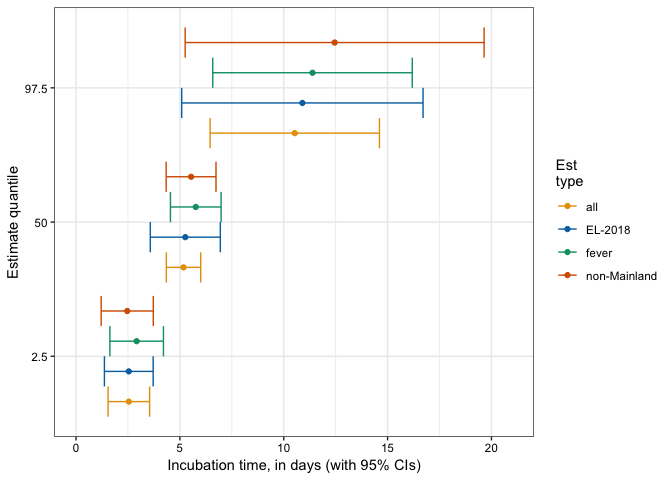
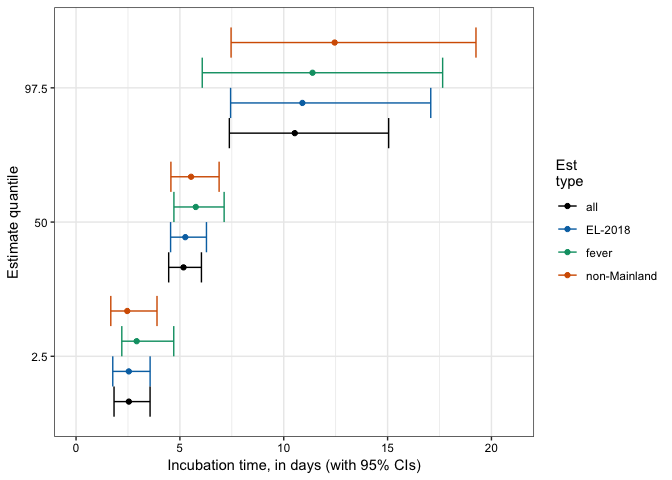
added analysis of other parameterizations

diff --git a/README.md b/README.md
@@ -1,7 +1,7 @@
 Real-time estimation of the Wuhan coronavirus incubation time
 =============================================================
 
-Updated: Wed Jan 29 12:31:57 2020
+Updated: Wed Jan 29 14:30:41 2020
 
 Our lab has been collecting data (freely available at
 [`data/nCoV-IDD-traveler-data.csv`](https://github.com/HopkinsIDD/ncov_incubation/blob/master/data/nCoV-IDD-traveler-data.csv))
@@ -28,11 +28,11 @@ Quick links:
 Data summary
 ------------
 
-There are 101 cases that have been double-checked by our team. Of those
-34 are known to be female (34%) and 63 are male (62%). The median age is
-about 52 years (IQR: 36.5-59). 29 cases are from Mainland China (29%),
-while 72 are from the rest of the world (71%). 61 cases presented with a
-fever (60%).
+There are 101 cases from 38 countries and provinces outside of Hubei,
+China. Of those 34 are known to be female (34%) and 63 are male (62%).
+The median age is about 52 years (IQR: 36.5-59). 29 cases are from
+Mainland China (29%), while 72 are from the rest of the world (71%). 61
+cases presented with a fever (60%).
 
 <img src="README_files/figure-markdown_strict/data-summary-1.png" alt="This figure displays the exposure and symptom onset windows for each case in our dataset, relative to the right-bound of the exposure window (ER). The blue bars indicate the the exposure windows and the red bars indicate the symptom onset windows for each case. Purple areas are where those two bars overlap."  />
 <p class="caption">
@@ -157,6 +157,23 @@ distribution.
 Alternate estimates and sensitivity analyses
 --------------------------------------------
 
+### Alternate parameterizations
+
+We fit other commonly-used parameterizations of the incubation period as
+comparisons to the log-normal distribution: gamma, Weibull, and Erlang.
+
+<img src="README_files/figure-markdown_strict/other-params-1.png" style="display: block; margin: auto;" />
+
+The median estimates are very similar across parameterizations, while
+the Weibull distribution has a slightly smaller value at the 2.5th
+percentile and the log-normal distribution has a slightly larger value
+at the 97.5th percentile. The log-likelihoods were very similar between
+distributions; the log-normal distribution having the largest
+log-likelihood (62.05) and the Erlang distribution having the smallest
+log-likelihood (60.96).
+
+### Sensitivity analyses
+
 To make sure that our overall incubation estimates are sound, we ran a
 few analyses on subsets to see if the results held up. Since the winter
 often brings cold air and other pathogens that can cause sore throats
@@ -199,9 +216,9 @@ incubation windows are shown below:
 
 <img src="README_files/figure-markdown_strict/comparison-1.png" style="display: block; margin: auto;" />
 
-The median estimates from all models lie between and -. The reduction in
-confidence interval widths may be due to the difference in the number of
-observations used to estimate each model.
+The median estimates from all models lie between 5.1 and 5.765. The
+reduction in confidence interval widths may be due to the difference in
+the number of observations used to estimate each model.
 
 *(Qulu Zheng, Hannah Meredith, Kyra Grantz, Qifang Bi, Forrest Jones,
 and Stephen Lauer all contributed to this project)*
